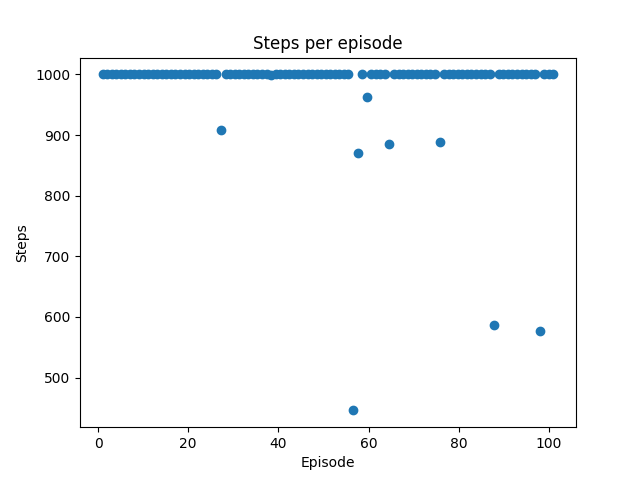
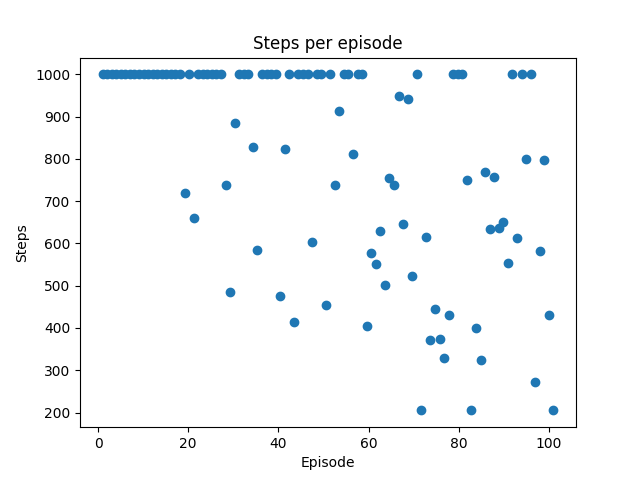
add new reward function

diff --git a/src/mountaincar.py b/src/mountaincar.py
@@ -34,7 +34,7 @@ class MountainCar:
         return self.position >= MountainCar.position_bound[1]
 
     def get_reward(self) -> float:
-        return self.height(self.position) + int(self.is_final_state())
+        return abs(self.velocity)*10 + self.position + 10*int(self.is_final_state())
 
     def height(self, x: float) -> float:
         return math.cos(3 * (x + math.pi / 2))

diff --git a/src/parameters.py b/src/parameters.py
@@ -25,7 +25,7 @@ EPSILON_DECAY = 0.98
 DISCOUNT_FACTOR = 0.92
 TRACE_DECAY = 0.9
 
-NN_LEARNING_RATE = 0.001
+NN_LEARNING_RATE = 0.01
 NN_DIMENSIONS = (NUMBER_OF_FEATURES, 1)
 NN_ACTIVATION_FUNCTION = relu  # linear, relu, sigmoid, or tanh
 NN_OPTIMIZER = Adam  # SGD, Adagrad, Adam, or RMSprop
